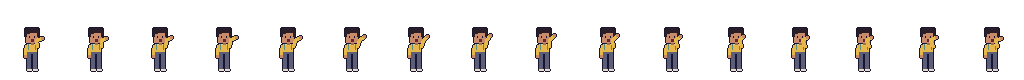
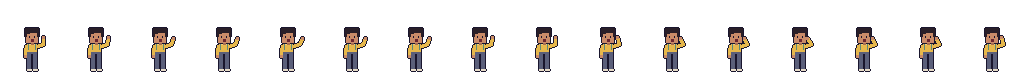
Site: fix wave arm, vary Kit scale/side per section, add CTAs
Claude-Session: https://claude.ai/code/session_01Ve2rP5s2Z7u2TRPZMoQpij

diff --git a/index.html b/index.html
@@ -12,12 +12,12 @@ a{color:inherit}
 header{display:flex;align-items:center;gap:12px;padding:22px 0}
 header img.logo{width:40px;height:40px;border-radius:8px}
 header .n{font-weight:500}header .n span{color:var(--muted);font-weight:400}
-header nav{margin-left:auto;display:flex;gap:18px;font-size:14px}header nav a{color:var(--muted);text-decoration:none}header nav a:hover{color:var(--fg)}
+header nav{margin-left:auto;margin-right:6px;display:flex;gap:18px;font-size:14px}header nav a{color:var(--muted);text-decoration:none}header nav a:hover{color:var(--fg)}
 /* sprite player: 16-frame strips, nearest-neighbour scaling */
 .sp{--s:4;width:calc(64px*var(--s));height:calc(80px*var(--s));background-repeat:no-repeat;background-size:calc(1024px*var(--s)) calc(80px*var(--s));image-rendering:pixelated;image-rendering:crisp-edges;flex:none;animation:play 1.33s steps(16) infinite;animation-play-state:paused}
 .sp.on{animation-play-state:running}
 @keyframes play{to{background-position-x:calc(-1024px*var(--s))}}
-.s-fwave{background-image:url(px/kit/s_fwave.png)}.s-read{background-image:url(px/kit/s_read.png)}.s-photo{background-image:url(px/kit/s_photo.png)}.s-cart{background-image:url(px/kit/s_cart.png)}.s-box{background-image:url(px/kit/s_box.png)}.s-dance{background-image:url(px/kit/s_dance.png)}.s-walk{background-image:url(px/kit/s_walk.png)}.s-wheel{background-image:url(px/kit/s_wheel.png)}.s-rope{background-image:url(px/kit/s_rope.png)}.s-umb{background-image:url(px/kit/s_umb.png)}
+.s-fwave{background-image:url(px/kit/s_fwave.png)}.s-read{background-image:url(px/kit/s_read.png)}.s-photo{background-image:url(px/kit/s_photo.png)}.s-cart{background-image:url(px/kit/s_cart.png)}.s-box{background-image:url(px/kit/s_box.png)}.s-sheet{background-image:url(px/kit/s_sheet.png)}.s-walk{background-image:url(px/kit/s_walk.png)}.s-wheel{background-image:url(px/kit/s_wheel.png)}.s-rope{background-image:url(px/kit/s_rope.png)}.s-umb{background-image:url(px/kit/s_umb.png)}
 .still{width:calc(52px*var(--s));height:calc(67px*var(--s));background-size:100% 100%;background-repeat:no-repeat;image-rendering:pixelated;image-rendering:crisp-edges;flex:none}
 .hero{display:grid;grid-template-columns:1.2fr .8fr;gap:24px;align-items:end;padding:20px 0 40px}
 .eyebrow{font-family:var(--mono);font-size:12px;letter-spacing:.12em;text-transform:uppercase;color:var(--green);margin:0 0 14px}
@@ -25,15 +25,18 @@ h1{font-size:clamp(34px,5.6vw,60px);line-height:1.03;letter-spacing:-.025em;marg
 .lead{font-size:18px;color:var(--muted);max-width:56ch;margin:0 0 26px}
 .btns{display:flex;flex-wrap:wrap;gap:12px}
 .btn{display:inline-block;background:var(--green);color:#07130b;font-weight:600;text-decoration:none;padding:13px 20px;border-radius:6px;border:2px solid #07130b;box-shadow:4px 4px 0 #07130b55}
+.btn.sm{padding:8px 14px;font-size:14px;box-shadow:3px 3px 0 #07130b55}
 .btn:hover{transform:translate(1px,1px)}.btn.ghost{background:transparent;color:var(--fg);border-color:var(--line);box-shadow:none}
 .stage{position:relative;display:flex;justify-content:center;align-items:flex-end;min-height:400px}
 .bubble{position:absolute;top:6px;left:0;background:var(--fg);color:#141414;font-family:var(--mono);font-size:13px;padding:10px 12px;max-width:200px;border:2px solid #000;box-shadow:4px 4px 0 #000;z-index:2}
 .bubble:after{content:"";position:absolute;bottom:-12px;left:40px;border:6px solid transparent;border-top:8px solid #000}
+.strip{display:flex;flex-wrap:wrap;gap:14px 24px;align-items:center;justify-content:space-between;background:var(--panel);border:1px solid var(--green);border-radius:8px;padding:18px 20px;margin-top:26px}
+.strip p{margin:0;font-size:17px}.strip small{display:block;color:var(--muted);font-size:14px;margin-top:2px}
 section{padding:46px 0;border-top:1px solid var(--line)}
 h2{font-size:clamp(24px,3.4vw,36px);letter-spacing:-.015em;margin:0 0 8px;text-wrap:balance}
 .sub{color:var(--muted);margin:0 0 24px;max-width:62ch}
 .head{display:flex;gap:26px;align-items:flex-end;flex-wrap:wrap;margin-bottom:6px}
-.head>div:last-child{flex:1 1 320px;min-width:0}
+.head>div:last-child{flex:1 1 320px;min-width:0}.head.r>.sp,.head.r>.still{order:2;margin-left:auto}.head.mid{align-items:center}.head.end{align-items:flex-end}
 .eps,.grid,.steps{display:grid;grid-template-columns:repeat(3,1fr);gap:16px}
 .ep,.step,.card{background:var(--panel);border:1px solid var(--line);border-radius:8px;padding:18px;min-width:0}
 .ep .num,.step .num{font-family:var(--mono);color:var(--green);font-size:12px}
@@ -42,17 +45,17 @@ h2{font-size:clamp(24px,3.4vw,36px);letter-spacing:-.015em;margin:0 0 8px;text-w
 .card{display:flex;flex-direction:column}.card.hot{border-color:var(--green)}
 .tag{font-family:var(--mono);font-size:11px;letter-spacing:.1em;text-transform:uppercase;color:var(--gold);margin:0 0 10px!important}
 .price{font-family:var(--mono);font-size:22px;margin:auto 0 12px!important;color:var(--fg)!important}.price small{font-size:13px;color:var(--muted)}
-.band{display:grid;grid-template-columns:1fr auto;gap:24px;align-items:end}
+.band{display:grid;grid-template-columns:auto 1fr;gap:28px;align-items:start}.band .sp{margin-top:40px}
 .list{margin:0 0 16px;padding-left:18px;color:var(--muted)}.list li{margin:4px 0}
 .faq h3{margin:18px 0 4px;font-size:17px}.faq p{color:var(--muted);max-width:66ch;margin:0}
 footer{padding:36px 0 20px;color:var(--muted);font-size:14px;border-top:1px solid var(--line)}
 #floor{position:fixed;left:0;right:0;bottom:0;height:70px;background:#0c0e0d;border-top:3px solid var(--green);pointer-events:none;z-index:20}
 #rider{--s:1.5;position:absolute;bottom:56px;left:0;animation:none;will-change:transform}
-@media(max-width:820px){.hero{grid-template-columns:1fr}.stage{order:-1;min-height:300px}.eps,.grid,.steps{grid-template-columns:1fr}header nav{display:none}.band{grid-template-columns:1fr}.sp.big{--s:4!important}#floor{height:58px}#rider{--s:1.2;bottom:46px}}
+@media(max-width:820px){.hero{grid-template-columns:1fr}.stage{order:-1;min-height:300px}.eps,.grid,.steps{grid-template-columns:1fr}header nav{display:none}.head.r>.sp,.head.r>.still{margin-left:0;order:0}.band{grid-template-columns:1fr}.band .sp{margin-top:0}.sp.big{--s:4!important}#floor{height:58px}#rider{--s:1.2;bottom:46px}}
 @media(prefers-reduced-motion:reduce){.sp{animation:none}}
 </style></head><body>
 <div class="wrap">
-<header><img class="logo" src="dm-logo.png" alt="DM"><div class="n">David Mba <span>· DM Motion</span></div><nav><a href="#stories">Kit's stories</a><a href="#start">Start here</a><a href="#shelf">What's here</a><a href="#studio">For firms</a><a href="#faq">Questions</a></nav></header>
+<header><img class="logo" src="dm-logo.png" alt="DM"><div class="n">David Mba <span>· DM Motion</span></div><nav><a href="#stories">Kit's stories</a><a href="#start">Start here</a><a href="#shelf">What's here</a><a href="#studio">For firms</a><a href="#faq">Questions</a></nav><a class="btn sm" href="mailto:dmba04@gmail.com?subject=Free%20ADA%20sheet&body=Send%20me%20the%20free%20ADA%20cheat%20sheet.">Free sheet</a></header>
 
 <div class="hero">
  <div>
@@ -65,12 +68,13 @@ footer{padding:36px 0 20px;color:var(--muted);font-size:14px;border-top:1px soli
 </div>
 
 <section id="stories">
- <div class="head"><div class="sp s-read" style="--s:5" aria-hidden="true"></div><div><h2>Kit's Code Stories</h2><p class="sub">Every story starts with a question you have probably wondered about, then shows the real rule and the person behind it. Under a minute each.</p></div></div>
+ <div class="head end"><div class="sp s-read" style="--s:4.5" aria-hidden="true"></div><div><h2>Kit's Code Stories</h2><p class="sub">Every story starts with a question you have probably wondered about, then shows the real rule and the person behind it. Under a minute each.</p></div></div>
  <div class="eps">
   <div class="ep"><div class="num">STORY 1</div><h3>How high is the light switch in your house?</h3><p>Ronald Mace used a wheelchair and spent his career on that question. He coined the term "universal design."</p></div>
   <div class="ep"><div class="num">STORY 2</div><h3>Why do hospital rooms feel designed against you?</h3><p>An architect found out the hard way when he became a wheelchair user in 2003, and it changed how he designed.</p></div>
   <div class="ep"><div class="num">STORY 3</div><h3>Why does every street corner have a little ramp?</h3><p>It started in 1940s Kalamazoo with one man asking his city to listen. Today the law gives the ramp a number.</p></div>
  </div>
+ <div class="strip"><p>Want every number from these stories on one page?<small>The free cheat sheet, delivered to your inbox.</small></p><a class="btn" href="mailto:dmba04@gmail.com?subject=Free%20ADA%20sheet&body=Send%20me%20the%20free%20ADA%20cheat%20sheet.">Get the free sheet</a></div>
 </section>
 
 <section id="start">
@@ -83,7 +87,7 @@ footer{padding:36px 0 20px;color:var(--muted);font-size:14px;border-top:1px soli
 </section>
 
 <section id="shelf">
- <div class="head"><div class="sp s-dance" style="--s:4" aria-hidden="true"></div><div><h2>What's here</h2><p class="sub">Built for beginners and architecture students. Some of it is free now, some is on its way.</p></div></div>
+ <div class="head r end"><div class="sp s-sheet" style="--s:6" aria-hidden="true"></div><div><h2>What's here</h2><p class="sub">Built for beginners and architecture students. Some of it is free now, some is on its way.</p></div></div>
  <div class="grid">
   <div class="card hot"><p class="tag">Free · available</p><h3>The ADA cheat sheet</h3><p>One visual page with the key design numbers from Kit's stories, drawn as diagrams you can pin above your desk.</p><p class="price">Free</p><a class="btn" href="mailto:dmba04@gmail.com?subject=Free%20ADA%20sheet&body=Send%20me%20the%20free%20ADA%20cheat%20sheet.">Send it to me</a></div>
   <div class="card"><p class="tag">Coming soon</p><h3>The Visual Code Pack</h3><p>Every sheet from Kit's stories in one pack: diagram-first pages for the rules students get wrong, so you can design with them from the first sketch.</p><p class="price">$19 <small>planned launch price</small></p><a class="btn ghost" href="mailto:dmba04@gmail.com?subject=Code%20Pack%20list&body=Add%20me%20to%20the%20Visual%20Code%20Pack%20list.">Join the list</a></div>
@@ -92,7 +96,8 @@ footer{padding:36px 0 20px;color:var(--muted);font-size:14px;border-top:1px soli
 </section>
 
 <section id="studio">
- <div class="band">
+ <div class="band l">
+  <div class="sp s-box" style="--s:4.5" aria-hidden="true"></div>
   <div>
    <h2>For firms, schools and teams</h2>
    <p class="sub">Kit can explain your rule, your project or your policy. I make short animated explainers in the same pixel-art style as the stories, built around the accessibility topics your people or clients need to understand.</p>
@@ -103,12 +108,11 @@ footer{padding:36px 0 20px;color:var(--muted);font-size:14px;border-top:1px soli
    </div>
    <p class="sub" style="margin-top:16px">Send the topic and where it will be used at <strong>dmba04@gmail.com</strong> and I will reply with a quote. Pricing depends on length and how many videos.</p>
   </div>
-  <div class="sp s-box" style="--s:5" aria-hidden="true"></div>
  </div>
 </section>
 
 <section class="faq" id="faq">
- <div class="head"><div class="still" style="--s:3.2;background-image:url(px/kit/measure.png)" aria-hidden="true"></div><div><h2>Questions</h2></div></div>
+ <div class="head r"><div class="still" style="--s:2.6;background-image:url(px/kit/think.png)" aria-hidden="true"></div><div><h2>Questions</h2></div></div>
  <h3>Who is this for?</h3><p>Anyone curious about how buildings work for everyone: middle and high school students, first-year architecture students, and designers who want a quick refresher.</p>
  <h3>Where do the numbers come from?</h3><p>The 2010 ADA Standards for Accessible Design. Kit explains them in plain language and shows each one as a diagram.</p>
  <h3>Is the sheet really free?</h3><p>Yes. Use the button at the top of the page and it is yours.</p>

diff --git a/preview.html b/preview.html
@@ -12,12 +12,12 @@ a{color:inherit}
 header{display:flex;align-items:center;gap:12px;padding:22px 0}
 header img.logo{width:40px;height:40px;border-radius:8px}
 header .n{font-weight:500}header .n span{color:var(--muted);font-weight:400}
-header nav{margin-left:auto;display:flex;gap:18px;font-size:14px}header nav a{color:var(--muted);text-decoration:none}header nav a:hover{color:var(--fg)}
+header nav{margin-left:auto;margin-right:6px;display:flex;gap:18px;font-size:14px}header nav a{color:var(--muted);text-decoration:none}header nav a:hover{color:var(--fg)}
 /* sprite player: 16-frame strips, nearest-neighbour scaling */
 .sp{--s:4;width:calc(64px*var(--s));height:calc(80px*var(--s));background-repeat:no-repeat;background-size:calc(1024px*var(--s)) calc(80px*var(--s));image-rendering:pixelated;image-rendering:crisp-edges;flex:none;animation:play 1.33s steps(16) infinite;animation-play-state:paused}
 .sp.on{animation-play-state:running}
 @keyframes play{to{background-position-x:calc(-1024px*var(--s))}}
-.s-fwave{background-image:url(px/kit/s_fwave.png)}.s-read{background-image:url(px/kit/s_read.png)}.s-photo{background-image:url(px/kit/s_photo.png)}.s-cart{background-image:url(px/kit/s_cart.png)}.s-box{background-image:url(px/kit/s_box.png)}.s-dance{background-image:url(px/kit/s_dance.png)}.s-walk{background-image:url(px/kit/s_walk.png)}.s-wheel{background-image:url(px/kit/s_wheel.png)}.s-rope{background-image:url(px/kit/s_rope.png)}.s-umb{background-image:url(px/kit/s_umb.png)}
+.s-fwave{background-image:url(px/kit/s_fwave.png)}.s-read{background-image:url(px/kit/s_read.png)}.s-photo{background-image:url(px/kit/s_photo.png)}.s-cart{background-image:url(px/kit/s_cart.png)}.s-box{background-image:url(px/kit/s_box.png)}.s-sheet{background-image:url(px/kit/s_sheet.png)}.s-walk{background-image:url(px/kit/s_walk.png)}.s-wheel{background-image:url(px/kit/s_wheel.png)}.s-rope{background-image:url(px/kit/s_rope.png)}.s-umb{background-image:url(px/kit/s_umb.png)}
 .still{width:calc(52px*var(--s));height:calc(67px*var(--s));background-size:100% 100%;background-repeat:no-repeat;image-rendering:pixelated;image-rendering:crisp-edges;flex:none}
 .hero{display:grid;grid-template-columns:1.2fr .8fr;gap:24px;align-items:end;padding:20px 0 40px}
 .eyebrow{font-family:var(--mono);font-size:12px;letter-spacing:.12em;text-transform:uppercase;color:var(--green);margin:0 0 14px}
@@ -25,15 +25,18 @@ h1{font-size:clamp(34px,5.6vw,60px);line-height:1.03;letter-spacing:-.025em;marg
 .lead{font-size:18px;color:var(--muted);max-width:56ch;margin:0 0 26px}
 .btns{display:flex;flex-wrap:wrap;gap:12px}
 .btn{display:inline-block;background:var(--green);color:#07130b;font-weight:600;text-decoration:none;padding:13px 20px;border-radius:6px;border:2px solid #07130b;box-shadow:4px 4px 0 #07130b55}
+.btn.sm{padding:8px 14px;font-size:14px;box-shadow:3px 3px 0 #07130b55}
 .btn:hover{transform:translate(1px,1px)}.btn.ghost{background:transparent;color:var(--fg);border-color:var(--line);box-shadow:none}
 .stage{position:relative;display:flex;justify-content:center;align-items:flex-end;min-height:400px}
 .bubble{position:absolute;top:6px;left:0;background:var(--fg);color:#141414;font-family:var(--mono);font-size:13px;padding:10px 12px;max-width:200px;border:2px solid #000;box-shadow:4px 4px 0 #000;z-index:2}
 .bubble:after{content:"";position:absolute;bottom:-12px;left:40px;border:6px solid transparent;border-top:8px solid #000}
+.strip{display:flex;flex-wrap:wrap;gap:14px 24px;align-items:center;justify-content:space-between;background:var(--panel);border:1px solid var(--green);border-radius:8px;padding:18px 20px;margin-top:26px}
+.strip p{margin:0;font-size:17px}.strip small{display:block;color:var(--muted);font-size:14px;margin-top:2px}
 section{padding:46px 0;border-top:1px solid var(--line)}
 h2{font-size:clamp(24px,3.4vw,36px);letter-spacing:-.015em;margin:0 0 8px;text-wrap:balance}
 .sub{color:var(--muted);margin:0 0 24px;max-width:62ch}
 .head{display:flex;gap:26px;align-items:flex-end;flex-wrap:wrap;margin-bottom:6px}
-.head>div:last-child{flex:1 1 320px;min-width:0}
+.head>div:last-child{flex:1 1 320px;min-width:0}.head.r>.sp,.head.r>.still{order:2;margin-left:auto}.head.mid{align-items:center}.head.end{align-items:flex-end}
 .eps,.grid,.steps{display:grid;grid-template-columns:repeat(3,1fr);gap:16px}
 .ep,.step,.card{background:var(--panel);border:1px solid var(--line);border-radius:8px;padding:18px;min-width:0}
 .ep .num,.step .num{font-family:var(--mono);color:var(--green);font-size:12px}
@@ -42,17 +45,17 @@ h2{font-size:clamp(24px,3.4vw,36px);letter-spacing:-.015em;margin:0 0 8px;text-w
 .card{display:flex;flex-direction:column}.card.hot{border-color:var(--green)}
 .tag{font-family:var(--mono);font-size:11px;letter-spacing:.1em;text-transform:uppercase;color:var(--gold);margin:0 0 10px!important}
 .price{font-family:var(--mono);font-size:22px;margin:auto 0 12px!important;color:var(--fg)!important}.price small{font-size:13px;color:var(--muted)}
-.band{display:grid;grid-template-columns:1fr auto;gap:24px;align-items:end}
+.band{display:grid;grid-template-columns:auto 1fr;gap:28px;align-items:start}.band .sp{margin-top:40px}
 .list{margin:0 0 16px;padding-left:18px;color:var(--muted)}.list li{margin:4px 0}
 .faq h3{margin:18px 0 4px;font-size:17px}.faq p{color:var(--muted);max-width:66ch;margin:0}
 footer{padding:36px 0 20px;color:var(--muted);font-size:14px;border-top:1px solid var(--line)}
 #floor{position:fixed;left:0;right:0;bottom:0;height:70px;background:#0c0e0d;border-top:3px solid var(--green);pointer-events:none;z-index:20}
 #rider{--s:1.5;position:absolute;bottom:56px;left:0;animation:none;will-change:transform}
-@media(max-width:820px){.hero{grid-template-columns:1fr}.stage{order:-1;min-height:300px}.eps,.grid,.steps{grid-template-columns:1fr}header nav{display:none}.band{grid-template-columns:1fr}.sp.big{--s:4!important}#floor{height:58px}#rider{--s:1.2;bottom:46px}}
+@media(max-width:820px){.hero{grid-template-columns:1fr}.stage{order:-1;min-height:300px}.eps,.grid,.steps{grid-template-columns:1fr}header nav{display:none}.head.r>.sp,.head.r>.still{margin-left:0;order:0}.band{grid-template-columns:1fr}.band .sp{margin-top:0}.sp.big{--s:4!important}#floor{height:58px}#rider{--s:1.2;bottom:46px}}
 @media(prefers-reduced-motion:reduce){.sp{animation:none}}
 </style></head><body>
 <div class="wrap">
-<header><img class="logo" src="dm-logo.png" alt="DM"><div class="n">David Mba <span>· DM Motion</span></div><nav><a href="#stories">Kit's stories</a><a href="#start">Start here</a><a href="#shelf">What's here</a><a href="#studio">For firms</a><a href="#faq">Questions</a></nav></header>
+<header><img class="logo" src="dm-logo.png" alt="DM"><div class="n">David Mba <span>· DM Motion</span></div><nav><a href="#stories">Kit's stories</a><a href="#start">Start here</a><a href="#shelf">What's here</a><a href="#studio">For firms</a><a href="#faq">Questions</a></nav><a class="btn sm" href="mailto:dmba04@gmail.com?subject=Free%20ADA%20sheet&body=Send%20me%20the%20free%20ADA%20cheat%20sheet.">Free sheet</a></header>
 
 <div class="hero">
  <div>
@@ -65,12 +68,13 @@ footer{padding:36px 0 20px;color:var(--muted);font-size:14px;border-top:1px soli
 </div>
 
 <section id="stories">
- <div class="head"><div class="sp s-read" style="--s:5" aria-hidden="true"></div><div><h2>Kit's Code Stories</h2><p class="sub">Every story starts with a question you have probably wondered about, then shows the real rule and the person behind it. Under a minute each.</p></div></div>
+ <div class="head end"><div class="sp s-read" style="--s:4.5" aria-hidden="true"></div><div><h2>Kit's Code Stories</h2><p class="sub">Every story starts with a question you have probably wondered about, then shows the real rule and the person behind it. Under a minute each.</p></div></div>
  <div class="eps">
   <div class="ep"><div class="num">STORY 1</div><h3>How high is the light switch in your house?</h3><p>Ronald Mace used a wheelchair and spent his career on that question. He coined the term "universal design."</p></div>
   <div class="ep"><div class="num">STORY 2</div><h3>Why do hospital rooms feel designed against you?</h3><p>An architect found out the hard way when he became a wheelchair user in 2003, and it changed how he designed.</p></div>
   <div class="ep"><div class="num">STORY 3</div><h3>Why does every street corner have a little ramp?</h3><p>It started in 1940s Kalamazoo with one man asking his city to listen. Today the law gives the ramp a number.</p></div>
  </div>
+ <div class="strip"><p>Want every number from these stories on one page?<small>The free cheat sheet, delivered to your inbox.</small></p><a class="btn" href="mailto:dmba04@gmail.com?subject=Free%20ADA%20sheet&body=Send%20me%20the%20free%20ADA%20cheat%20sheet.">Get the free sheet</a></div>
 </section>
 
 <section id="start">
@@ -83,7 +87,7 @@ footer{padding:36px 0 20px;color:var(--muted);font-size:14px;border-top:1px soli
 </section>
 
 <section id="shelf">
- <div class="head"><div class="sp s-dance" style="--s:4" aria-hidden="true"></div><div><h2>What's here</h2><p class="sub">Built for beginners and architecture students. Some of it is free now, some is on its way.</p></div></div>
+ <div class="head r end"><div class="sp s-sheet" style="--s:6" aria-hidden="true"></div><div><h2>What's here</h2><p class="sub">Built for beginners and architecture students. Some of it is free now, some is on its way.</p></div></div>
  <div class="grid">
   <div class="card hot"><p class="tag">Free · available</p><h3>The ADA cheat sheet</h3><p>One visual page with the key design numbers from Kit's stories, drawn as diagrams you can pin above your desk.</p><p class="price">Free</p><a class="btn" href="mailto:dmba04@gmail.com?subject=Free%20ADA%20sheet&body=Send%20me%20the%20free%20ADA%20cheat%20sheet.">Send it to me</a></div>
   <div class="card"><p class="tag">Coming soon</p><h3>The Visual Code Pack</h3><p>Every sheet from Kit's stories in one pack: diagram-first pages for the rules students get wrong, so you can design with them from the first sketch.</p><p class="price">$19 <small>planned launch price</small></p><a class="btn ghost" href="mailto:dmba04@gmail.com?subject=Code%20Pack%20list&body=Add%20me%20to%20the%20Visual%20Code%20Pack%20list.">Join the list</a></div>
@@ -92,7 +96,8 @@ footer{padding:36px 0 20px;color:var(--muted);font-size:14px;border-top:1px soli
 </section>
 
 <section id="studio">
- <div class="band">
+ <div class="band l">
+  <div class="sp s-box" style="--s:4.5" aria-hidden="true"></div>
   <div>
    <h2>For firms, schools and teams</h2>
    <p class="sub">Kit can explain your rule, your project or your policy. I make short animated explainers in the same pixel-art style as the stories, built around the accessibility topics your people or clients need to understand.</p>
@@ -103,12 +108,11 @@ footer{padding:36px 0 20px;color:var(--muted);font-size:14px;border-top:1px soli
    </div>
    <p class="sub" style="margin-top:16px">Send the topic and where it will be used at <strong>dmba04@gmail.com</strong> and I will reply with a quote. Pricing depends on length and how many videos.</p>
   </div>
-  <div class="sp s-box" style="--s:5" aria-hidden="true"></div>
  </div>
 </section>
 
 <section class="faq" id="faq">
- <div class="head"><div class="still" style="--s:3.2;background-image:url(px/kit/measure.png)" aria-hidden="true"></div><div><h2>Questions</h2></div></div>
+ <div class="head r"><div class="still" style="--s:2.6;background-image:url(px/kit/think.png)" aria-hidden="true"></div><div><h2>Questions</h2></div></div>
  <h3>Who is this for?</h3><p>Anyone curious about how buildings work for everyone: middle and high school students, first-year architecture students, and designers who want a quick refresher.</p>
  <h3>Where do the numbers come from?</h3><p>The 2010 ADA Standards for Accessible Design. Kit explains them in plain language and shows each one as a diagram.</p>
  <h3>Is the sheet really free?</h3><p>Yes. Use the button at the top of the page and it is yours.</p>

diff --git a/kit/engine/site_tpl.html b/kit/engine/site_tpl.html
@@ -10,12 +10,12 @@ a{color:inherit}
 header{display:flex;align-items:center;gap:12px;padding:22px 0}
 header img.logo{width:40px;height:40px;border-radius:8px}
 header .n{font-weight:500}header .n span{color:var(--muted);font-weight:400}
-header nav{margin-left:auto;display:flex;gap:18px;font-size:14px}header nav a{color:var(--muted);text-decoration:none}header nav a:hover{color:var(--fg)}
+header nav{margin-left:auto;margin-right:6px;display:flex;gap:18px;font-size:14px}header nav a{color:var(--muted);text-decoration:none}header nav a:hover{color:var(--fg)}
 /* sprite player: 16-frame strips, nearest-neighbour scaling */
 .sp{--s:4;width:calc(64px*var(--s));height:calc(80px*var(--s));background-repeat:no-repeat;background-size:calc(1024px*var(--s)) calc(80px*var(--s));image-rendering:pixelated;image-rendering:crisp-edges;flex:none;animation:play 1.33s steps(16) infinite;animation-play-state:paused}
 .sp.on{animation-play-state:running}
 @keyframes play{to{background-position-x:calc(-1024px*var(--s))}}
-.s-fwave{background-image:url({{s_fwave}})}.s-read{background-image:url({{s_read}})}.s-photo{background-image:url({{s_photo}})}.s-cart{background-image:url({{s_cart}})}.s-box{background-image:url({{s_box}})}.s-dance{background-image:url({{s_dance}})}.s-walk{background-image:url({{s_walk}})}.s-wheel{background-image:url({{s_wheel}})}.s-rope{background-image:url({{s_rope}})}.s-umb{background-image:url({{s_umb}})}
+.s-fwave{background-image:url({{s_fwave}})}.s-read{background-image:url({{s_read}})}.s-photo{background-image:url({{s_photo}})}.s-cart{background-image:url({{s_cart}})}.s-box{background-image:url({{s_box}})}.s-sheet{background-image:url({{s_sheet}})}.s-walk{background-image:url({{s_walk}})}.s-wheel{background-image:url({{s_wheel}})}.s-rope{background-image:url({{s_rope}})}.s-umb{background-image:url({{s_umb}})}
 .still{width:calc(52px*var(--s));height:calc(67px*var(--s));background-size:100% 100%;background-repeat:no-repeat;image-rendering:pixelated;image-rendering:crisp-edges;flex:none}
 .hero{display:grid;grid-template-columns:1.2fr .8fr;gap:24px;align-items:end;padding:20px 0 40px}
 .eyebrow{font-family:var(--mono);font-size:12px;letter-spacing:.12em;text-transform:uppercase;color:var(--green);margin:0 0 14px}
@@ -23,15 +23,18 @@ h1{font-size:clamp(34px,5.6vw,60px);line-height:1.03;letter-spacing:-.025em;marg
 .lead{font-size:18px;color:var(--muted);max-width:56ch;margin:0 0 26px}
 .btns{display:flex;flex-wrap:wrap;gap:12px}
 .btn{display:inline-block;background:var(--green);color:#07130b;font-weight:600;text-decoration:none;padding:13px 20px;border-radius:6px;border:2px solid #07130b;box-shadow:4px 4px 0 #07130b55}
+.btn.sm{padding:8px 14px;font-size:14px;box-shadow:3px 3px 0 #07130b55}
 .btn:hover{transform:translate(1px,1px)}.btn.ghost{background:transparent;color:var(--fg);border-color:var(--line);box-shadow:none}
 .stage{position:relative;display:flex;justify-content:center;align-items:flex-end;min-height:400px}
 .bubble{position:absolute;top:6px;left:0;background:var(--fg);color:#141414;font-family:var(--mono);font-size:13px;padding:10px 12px;max-width:200px;border:2px solid #000;box-shadow:4px 4px 0 #000;z-index:2}
 .bubble:after{content:"";position:absolute;bottom:-12px;left:40px;border:6px solid transparent;border-top:8px solid #000}
+.strip{display:flex;flex-wrap:wrap;gap:14px 24px;align-items:center;justify-content:space-between;background:var(--panel);border:1px solid var(--green);border-radius:8px;padding:18px 20px;margin-top:26px}
+.strip p{margin:0;font-size:17px}.strip small{display:block;color:var(--muted);font-size:14px;margin-top:2px}
 section{padding:46px 0;border-top:1px solid var(--line)}
 h2{font-size:clamp(24px,3.4vw,36px);letter-spacing:-.015em;margin:0 0 8px;text-wrap:balance}
 .sub{color:var(--muted);margin:0 0 24px;max-width:62ch}
 .head{display:flex;gap:26px;align-items:flex-end;flex-wrap:wrap;margin-bottom:6px}
-.head>div:last-child{flex:1 1 320px;min-width:0}
+.head>div:last-child{flex:1 1 320px;min-width:0}.head.r>.sp,.head.r>.still{order:2;margin-left:auto}.head.mid{align-items:center}.head.end{align-items:flex-end}
 .eps,.grid,.steps{display:grid;grid-template-columns:repeat(3,1fr);gap:16px}
 .ep,.step,.card{background:var(--panel);border:1px solid var(--line);border-radius:8px;padding:18px;min-width:0}
 .ep .num,.step .num{font-family:var(--mono);color:var(--green);font-size:12px}
@@ -40,17 +43,17 @@ h2{font-size:clamp(24px,3.4vw,36px);letter-spacing:-.015em;margin:0 0 8px;text-w
 .card{display:flex;flex-direction:column}.card.hot{border-color:var(--green)}
 .tag{font-family:var(--mono);font-size:11px;letter-spacing:.1em;text-transform:uppercase;color:var(--gold);margin:0 0 10px!important}
 .price{font-family:var(--mono);font-size:22px;margin:auto 0 12px!important;color:var(--fg)!important}.price small{font-size:13px;color:var(--muted)}
-.band{display:grid;grid-template-columns:1fr auto;gap:24px;align-items:end}
+.band{display:grid;grid-template-columns:auto 1fr;gap:28px;align-items:start}.band .sp{margin-top:40px}
 .list{margin:0 0 16px;padding-left:18px;color:var(--muted)}.list li{margin:4px 0}
 .faq h3{margin:18px 0 4px;font-size:17px}.faq p{color:var(--muted);max-width:66ch;margin:0}
 footer{padding:36px 0 20px;color:var(--muted);font-size:14px;border-top:1px solid var(--line)}
 #floor{position:fixed;left:0;right:0;bottom:0;height:70px;background:#0c0e0d;border-top:3px solid var(--green);pointer-events:none;z-index:20}
 #rider{--s:1.5;position:absolute;bottom:56px;left:0;animation:none;will-change:transform}
-@media(max-width:820px){.hero{grid-template-columns:1fr}.stage{order:-1;min-height:300px}.eps,.grid,.steps{grid-template-columns:1fr}header nav{display:none}.band{grid-template-columns:1fr}.sp.big{--s:4!important}#floor{height:58px}#rider{--s:1.2;bottom:46px}}
+@media(max-width:820px){.hero{grid-template-columns:1fr}.stage{order:-1;min-height:300px}.eps,.grid,.steps{grid-template-columns:1fr}header nav{display:none}.head.r>.sp,.head.r>.still{margin-left:0;order:0}.band{grid-template-columns:1fr}.band .sp{margin-top:0}.sp.big{--s:4!important}#floor{height:58px}#rider{--s:1.2;bottom:46px}}
 @media(prefers-reduced-motion:reduce){.sp{animation:none}}
 </style>
 <div class="wrap">
-<header><img class="logo" src="{{logo}}" alt="DM"><div class="n">David Mba <span>· DM Motion</span></div><nav><a href="#stories">Kit's stories</a><a href="#start">Start here</a><a href="#shelf">What's here</a><a href="#studio">For firms</a><a href="#faq">Questions</a></nav></header>
+<header><img class="logo" src="{{logo}}" alt="DM"><div class="n">David Mba <span>· DM Motion</span></div><nav><a href="#stories">Kit's stories</a><a href="#start">Start here</a><a href="#shelf">What's here</a><a href="#studio">For firms</a><a href="#faq">Questions</a></nav><a class="btn sm" href="mailto:dmba04@gmail.com?subject=Free%20ADA%20sheet&body=Send%20me%20the%20free%20ADA%20cheat%20sheet.">Free sheet</a></header>
 
 <div class="hero">
  <div>
@@ -63,12 +66,13 @@ footer{padding:36px 0 20px;color:var(--muted);font-size:14px;border-top:1px soli
 </div>
 
 <section id="stories">
- <div class="head"><div class="sp s-read" style="--s:5" aria-hidden="true"></div><div><h2>Kit's Code Stories</h2><p class="sub">Every story starts with a question you have probably wondered about, then shows the real rule and the person behind it. Under a minute each.</p></div></div>
+ <div class="head end"><div class="sp s-read" style="--s:4.5" aria-hidden="true"></div><div><h2>Kit's Code Stories</h2><p class="sub">Every story starts with a question you have probably wondered about, then shows the real rule and the person behind it. Under a minute each.</p></div></div>
  <div class="eps">
   <div class="ep"><div class="num">STORY 1</div><h3>How high is the light switch in your house?</h3><p>Ronald Mace used a wheelchair and spent his career on that question. He coined the term "universal design."</p></div>
   <div class="ep"><div class="num">STORY 2</div><h3>Why do hospital rooms feel designed against you?</h3><p>An architect found out the hard way when he became a wheelchair user in 2003, and it changed how he designed.</p></div>
   <div class="ep"><div class="num">STORY 3</div><h3>Why does every street corner have a little ramp?</h3><p>It started in 1940s Kalamazoo with one man asking his city to listen. Today the law gives the ramp a number.</p></div>
  </div>
+ <div class="strip"><p>Want every number from these stories on one page?<small>The free cheat sheet, delivered to your inbox.</small></p><a class="btn" href="mailto:dmba04@gmail.com?subject=Free%20ADA%20sheet&body=Send%20me%20the%20free%20ADA%20cheat%20sheet.">Get the free sheet</a></div>
 </section>
 
 <section id="start">
@@ -81,7 +85,7 @@ footer{padding:36px 0 20px;color:var(--muted);font-size:14px;border-top:1px soli
 </section>
 
 <section id="shelf">
- <div class="head"><div class="sp s-dance" style="--s:4" aria-hidden="true"></div><div><h2>What's here</h2><p class="sub">Built for beginners and architecture students. Some of it is free now, some is on its way.</p></div></div>
+ <div class="head r end"><div class="sp s-sheet" style="--s:6" aria-hidden="true"></div><div><h2>What's here</h2><p class="sub">Built for beginners and architecture students. Some of it is free now, some is on its way.</p></div></div>
  <div class="grid">
   <div class="card hot"><p class="tag">Free · available</p><h3>The ADA cheat sheet</h3><p>One visual page with the key design numbers from Kit's stories, drawn as diagrams you can pin above your desk.</p><p class="price">Free</p><a class="btn" href="mailto:dmba04@gmail.com?subject=Free%20ADA%20sheet&body=Send%20me%20the%20free%20ADA%20cheat%20sheet.">Send it to me</a></div>
   <div class="card"><p class="tag">Coming soon</p><h3>The Visual Code Pack</h3><p>Every sheet from Kit's stories in one pack: diagram-first pages for the rules students get wrong, so you can design with them from the first sketch.</p><p class="price">$19 <small>planned launch price</small></p><a class="btn ghost" href="mailto:dmba04@gmail.com?subject=Code%20Pack%20list&body=Add%20me%20to%20the%20Visual%20Code%20Pack%20list.">Join the list</a></div>
@@ -90,7 +94,8 @@ footer{padding:36px 0 20px;color:var(--muted);font-size:14px;border-top:1px soli
 </section>
 
 <section id="studio">
- <div class="band">
+ <div class="band l">
+  <div class="sp s-box" style="--s:4.5" aria-hidden="true"></div>
   <div>
    <h2>For firms, schools and teams</h2>
    <p class="sub">Kit can explain your rule, your project or your policy. I make short animated explainers in the same pixel-art style as the stories, built around the accessibility topics your people or clients need to understand.</p>
@@ -101,12 +106,11 @@ footer{padding:36px 0 20px;color:var(--muted);font-size:14px;border-top:1px soli
    </div>
    <p class="sub" style="margin-top:16px">Send the topic and where it will be used at <strong>dmba04@gmail.com</strong> and I will reply with a quote. Pricing depends on length and how many videos.</p>
   </div>
-  <div class="sp s-box" style="--s:5" aria-hidden="true"></div>
  </div>
 </section>
 
 <section class="faq" id="faq">
- <div class="head"><div class="still" style="--s:3.2;background-image:url({{measure}})" aria-hidden="true"></div><div><h2>Questions</h2></div></div>
+ <div class="head r"><div class="still" style="--s:2.6;background-image:url({{think}})" aria-hidden="true"></div><div><h2>Questions</h2></div></div>
  <h3>Who is this for?</h3><p>Anyone curious about how buildings work for everyone: middle and high school students, first-year architecture students, and designers who want a quick refresher.</p>
  <h3>Where do the numbers come from?</h3><p>The 2010 ADA Standards for Accessible Design. Kit explains them in plain language and shows each one as a diagram.</p>
  <h3>Is the sheet really free?</h3><p>Yes. Use the button at the top of the page and it is yours.</p>

diff --git a/kit/engine/strips_page.js b/kit/engine/strips_page.js
@@ -20,9 +20,16 @@ const WHEEL=(t,fr)=>{const hx=CX-4,hy=GY-12,WX=CX-5,WY=GY-8,RR=8;
   prop:(g)=>{wheel(g);R(g,Math.round(hand[0])-1,Math.round(hand[1])-1,3,3,K.skin)}}};
 function R_fn(g,x,y,w,h,c){R(g,x,y,w,h,c)}
 // ---- front wave ----
-const FWAVE=(t,fr)=>{const th=t*PI2,sy=GY-16.5-7;return{hip:GY-16.5+(S(th*2)>0?0:0),feet:[[-3,0],[3,0]],hands:[[CX-7.5,sy+10.5],[CX+9.5+2.5*S(th),sy-9+1.2*C(th)]],sl:1,sa:[1,0],mouth:'open'}};
+const FWAVE=(t,fr)=>{const th=t*PI2,hip=GY-16.5,sy=hip-7;const sw=S(th),bob=Math.abs(S(th))*0;
+ // upper arm out to the side and up, forearm vertical; hand sweeps side to side (a real wave)
+ const e=[CX+10.5,sy-1.5],h=[CX+10.5+3.2*sw,sy-8.5+.8*Math.abs(sw)];
+ return{hip,feet:[[-3,0],[3,0]],hands:[[CX-7.2,sy+10.2],h],armJ:[null,{e,h}],sl:1,sa:[1,0],mouth:'open'}};
 const FIDLE=(t,fr)=>{const th=t*PI2,sy=GY-16.5-7;return{hip:GY-16.5+(S(th)>.6?-0:0),feet:[[-3,0],[3,0]],hands:[[CX-7.5,sy+10.5+.7*S(th)],[CX+6.5,sy+10.5-.7*S(th)]],sl:1,sa:[1,1],mouth:'smile'}};
+const std=[st(2,2),st(-2,-2)];
+const sheetProp=(g,i)=>{const h=i.h[0],x=h[0]-1,y=h[1]-11;R(g,x,y,12,15,'#f1eddf');R(g,x,y,12,1,'#fff');R(g,x+2,y+3,8,1,'#5c8a7a');R(g,x+2,y+6,6,1,'#b8b8a8');R(g,x+2,y+8,8,1,'#b8b8a8');R(g,x+2,y+10,5,1,'#b8b8a8');R(g,x+2,y+12,7,1,'#e0534a')};
+const SHEET=(t,fr)=>{const p=t*PI2*2;return{legs:std,armRel:[[10,-2.5+.8*S(p)],[8,-1]],arms:[{ua:0,fa:0},{ua:0,fa:0}],lean:2,dy:S(p)>0?0:-1,face:S(p)>.2?'happy':'n',mouth:'smile',mid:(g,i)=>sheetProp(g,i)}};
 window.STRIPS={
+ sheet:()=>strip(SHEET,'side'),
  fwave:()=>strip(FWAVE,'f'),
  wheel:()=>strip(WHEEL,'side'),
  walk:()=>strip((t,fr)=>{const P=sideWalk.f(t,fr);return P},'side'),

diff --git a/kit/engine/fb.js b/kit/engine/fb.js
@@ -5,7 +5,7 @@ function kitFB(g,P,v){
  const L=fx.map((f,i)=>{const jx=cx+(i?3:-3);if(P.sl)return{jx,k:[(jx+f[0])/2,(hipY+f[1])/2],a:f};const r=ik(jx,hipY,f[0],f[1],9,8,i?1:-1);const k=pt(jx,hipY,9,r.th),a=pt(k[0],k[1],8,r.sh);return{jx,k,a}});
  const ny=hipY-10,shY=ny+3,hy=ny-12;
  const SX=[cx-6,cx+5];
- const Ar=P.hands.map((h,i)=>{if(P.sa&&P.sa[i])return{e:[(SX[i]+h[0])/2,(shY+h[1])/2],h};const r=ik(SX[i],shY,h[0],h[1],6,6,i?1:-1);const e=pt(SX[i],shY,6,r.th),hh=pt(e[0],e[1],6,r.sh);return{e,h:hh}});
+ const Ar=P.hands.map((h,i)=>{if(P.armJ&&P.armJ[i])return{e:P.armJ[i].e,h:P.armJ[i].h};if(P.sa&&P.sa[i])return{e:[(SX[i]+h[0])/2,(shY+h[1])/2],h};const r=ik(SX[i],shY,h[0],h[1],6,6,i?1:-1);const e=pt(SX[i],shY,6,r.th),hh=pt(e[0],e[1],6,r.sh);return{e,h:hh}});
  const info={hipY,ny,shY,hy,h:Ar.map(a=>a.h),SX};
  P.back&&P.back(g,info);
  (P.order||[0,1]).forEach(i=>{const l=L[i],d=P.dL&&P.dL[i],pc=d?shade(K.pants,.66):K.pants,sc=d?shade(K.shoe,.66):K.shoe,sw=(P.sw&&P.sw[i])||5;line(g,l.jx,hipY,l.k[0],l.k[1],4,pc);line(g,l.k[0],l.k[1],l.a[0],l.a[1],4,pc);R(g,Math.round(l.a[0])-Math.floor(sw/2),Math.round(l.a[1]),sw,2,sc)});
